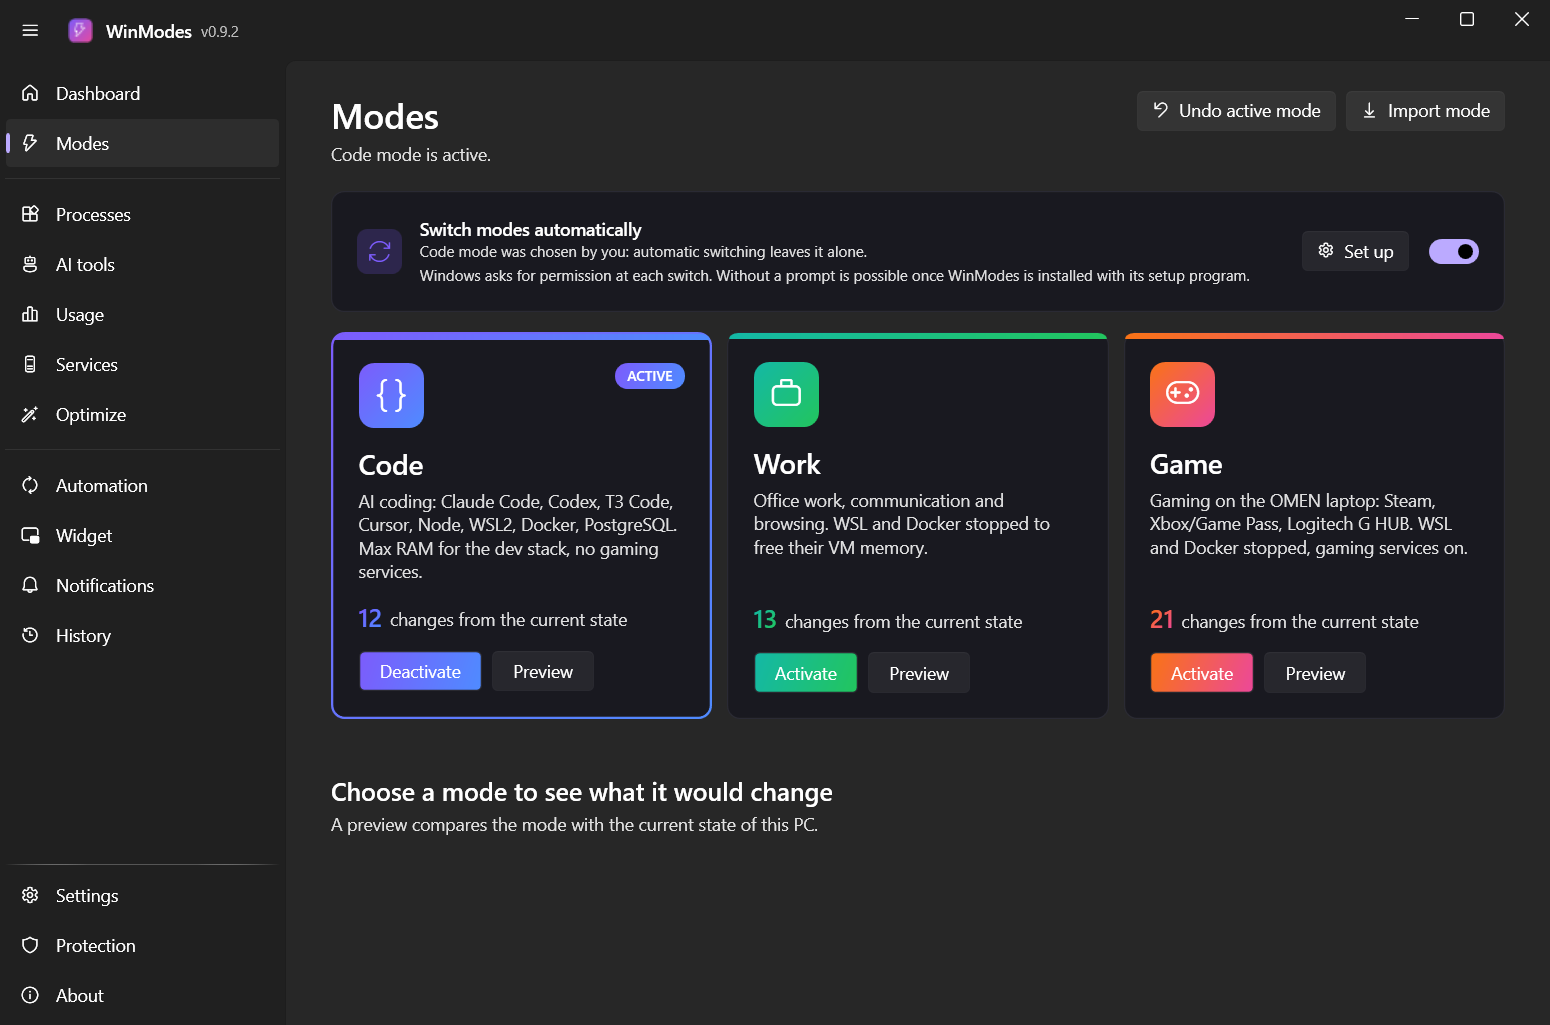
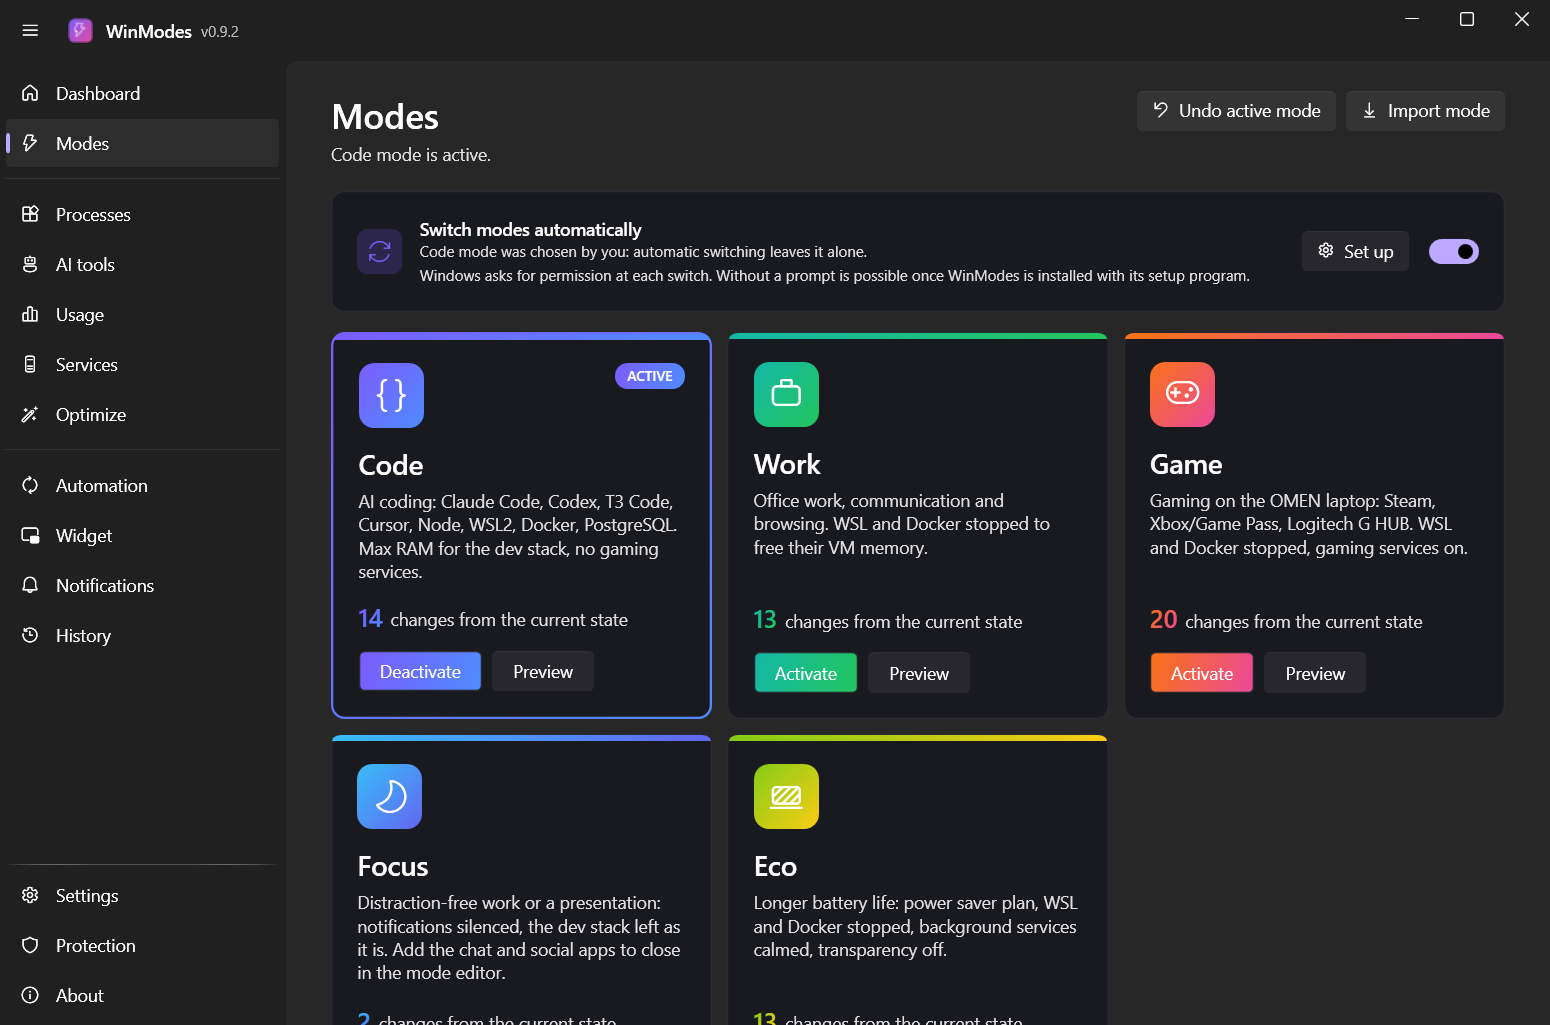
Update the README for the five modes and the larger Optimize catalog

diff --git a/README.md b/README.md
@@ -2,7 +2,7 @@
 
 Reversible Windows 11 modes for coding, work and gaming.
 
-WinModes switches your PC between modes (Code, Work, Game) to free memory and cut background load, without the usual damage of "debloat" tools: nothing is uninstalled, no security feature is weakened, and every switch can be undone.
+WinModes switches your PC between modes (Code, Work, Game, Focus, Eco) to free memory and cut background load, without the usual damage of "debloat" tools: nothing is uninstalled, no security feature is weakened, and every switch can be undone.
 
 It also watches the AI coding tools you run: what each one costs in memory, how much of your Claude Code and Codex plans is left, and how many tokens they used.
 
@@ -14,14 +14,14 @@ It also watches the AI coding tools you run: what each one costs in memory, how 
 
 ## What it does
 
-- **Modes**: each mode stops the services it does not need, closes or launches apps, sets the power plan and starts or stops WSL and Docker Desktop.
+- **Modes**: each mode stops the services it does not need, closes or launches apps, sets the power plan and starts or stops WSL and Docker Desktop. Five come with the app: **Code** (dev stack up, performance plan), **Work** (WSL and Docker stopped), **Game** (best performance plan, notifications off), **Focus** (notifications silenced, screen and PC kept awake on mains power, the dev stack left alone) and **Eco** (Power saver plan for the battery). A mode can also turn on Windows settings and change power values such as when the display turns off; it does so on a copy of your power plan, so your own plans are never edited. You can edit, duplicate, export and import modes.
 - **Preview before anything changes**: every mode shows exactly what it would change on your PC, compared with its current state.
 - **Undo**: the state of each service is recorded before it is touched, and "Deactivate" restores it.
 - **Dashboard**: CPU and memory gauges, 60-second history graphs for CPU, memory, GPU and disk, what each AI tool uses at a glance, top memory consumers.
 - **Processes page**: process tree with child processes, PID, CPU, memory, threads and command line; search, sort, and a right-click menu (end task, end process tree, open file location, copy).
 - **AI tools page**: every running session of Claude Code, Claude desktop, Codex, Cursor, VS Code and others, with the project folder it works in and all the processes it started.
 - **Services page**: search, filters, real app icons, and a lock on everything that is protected; a right-click starts, stops or changes the start type of a service that is not protected.
-- **Optimize page**: 28 Windows settings by category (privacy and telemetry, ads and suggestions, search and AI, gaming, background, Explorer) and the services worth starting only when needed. Each row shows whether it is already applied on your PC and how many of 12 surveyed open-source optimizers ship the same setting. You choose what to apply; WinModes records the current value first and Undo puts it back. Settings that weaken security or updates are not in the catalog and are refused by the engine. Nothing is uninstalled or deleted.
+- **Optimize page**: 79 Windows settings by category (privacy and telemetry, ads and suggestions, search and AI, gaming, background, Explorer), found by reading the code of more than forty open-source Windows optimizers, and the services worth starting only when needed. Each row shows whether it is already applied on your PC and how many of those optimizers ship the same setting. After each write WinModes reads the value back, so a setting that Windows refuses is reported instead of shown as applied. You choose what to apply; WinModes records the current value first and Undo puts it back. Settings that weaken security or updates are not in the catalog and are refused by the engine. Nothing is uninstalled or deleted.
 - **Usage page** (optional, off by default): the **tokens** Claude Code and Codex used (total, new input, output, cache, per day, per model and per project) and how much **memory** each AI tool held per project, over the last day, week or month. The tokens are counted from the usage figures in the logs of the two tools, never from the text of a conversation; everything stays on your PC.
 - **MCP servers in double**: the AI tools page shows the MCP servers that several sessions each started, and the memory they hold together.
 - **Idle sessions**: flagged after 30 minutes without CPU use; end them by hand, or let WinModes do it after a delay you choose (off by default).
